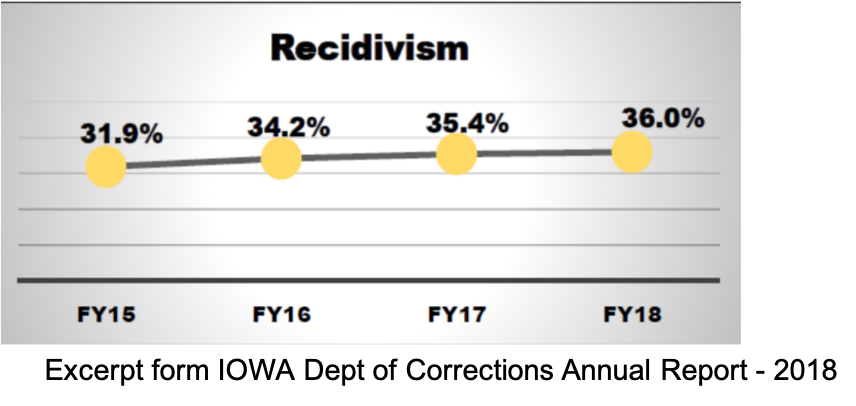
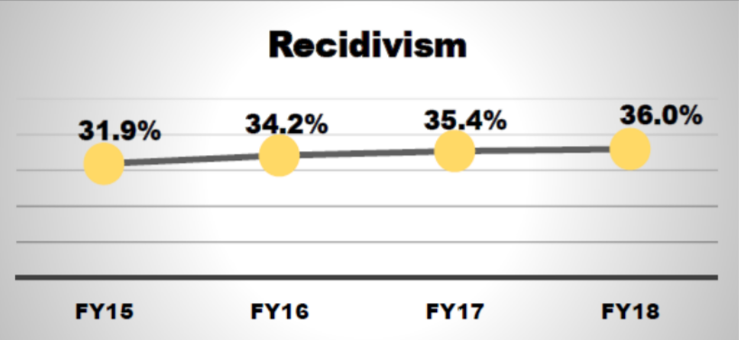
Update README

diff --git a/README.md b/README.md
@@ -3,8 +3,6 @@
 
 **Author**: James M. Irving, Ph.D.
 
-The contents of this repository detail an analysis of the module one project. This analysis is detailed in hopes of making the work accessible and replicable.
-
 
 
 <img src="images/iowa_in_jail.png">
@@ -12,8 +10,12 @@ The contents of this repository detail an analysis of the module one project. Th
 ### Business problem:
 The state of Iowa has a prisoner recidivism issue that it has asked for help in understanding. 
 In 2015, nearly 1/3 of all released prisoners from Iowa were returning to prison within 3 years of being released.
-<img src="images/recidivism_report_1.png">
-<img src="images/recidivism_report_2.png">
+
+
+<img src="images/recidivism_report_1.png" width=70%>
+<img src="images/recidivism_report_2.png" width=80%>
+
+- Excerpt from [Iowa Department of Corrections Annual Report 2018](https://doc.iowa.gov/document/fy-2018-corrections-annual-report)
 
 ### Data 
 
